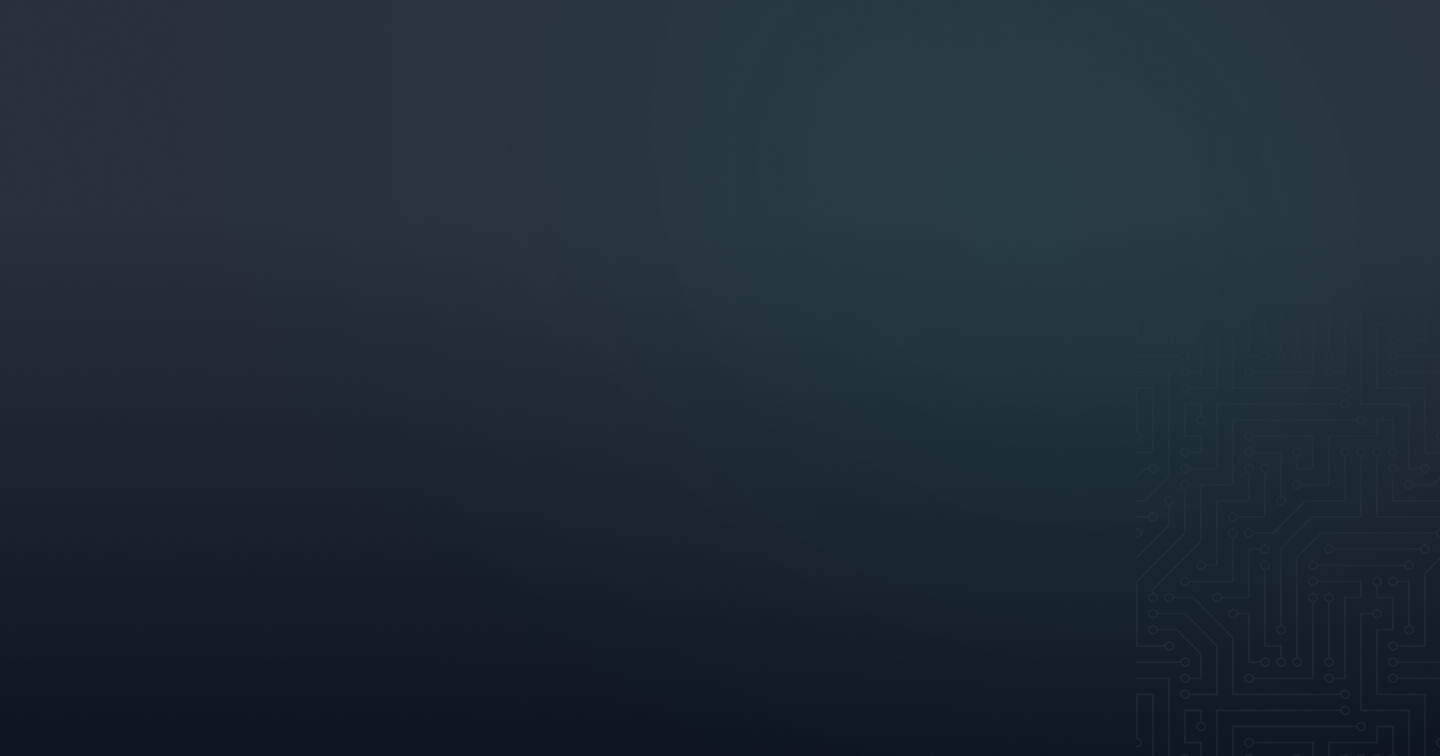
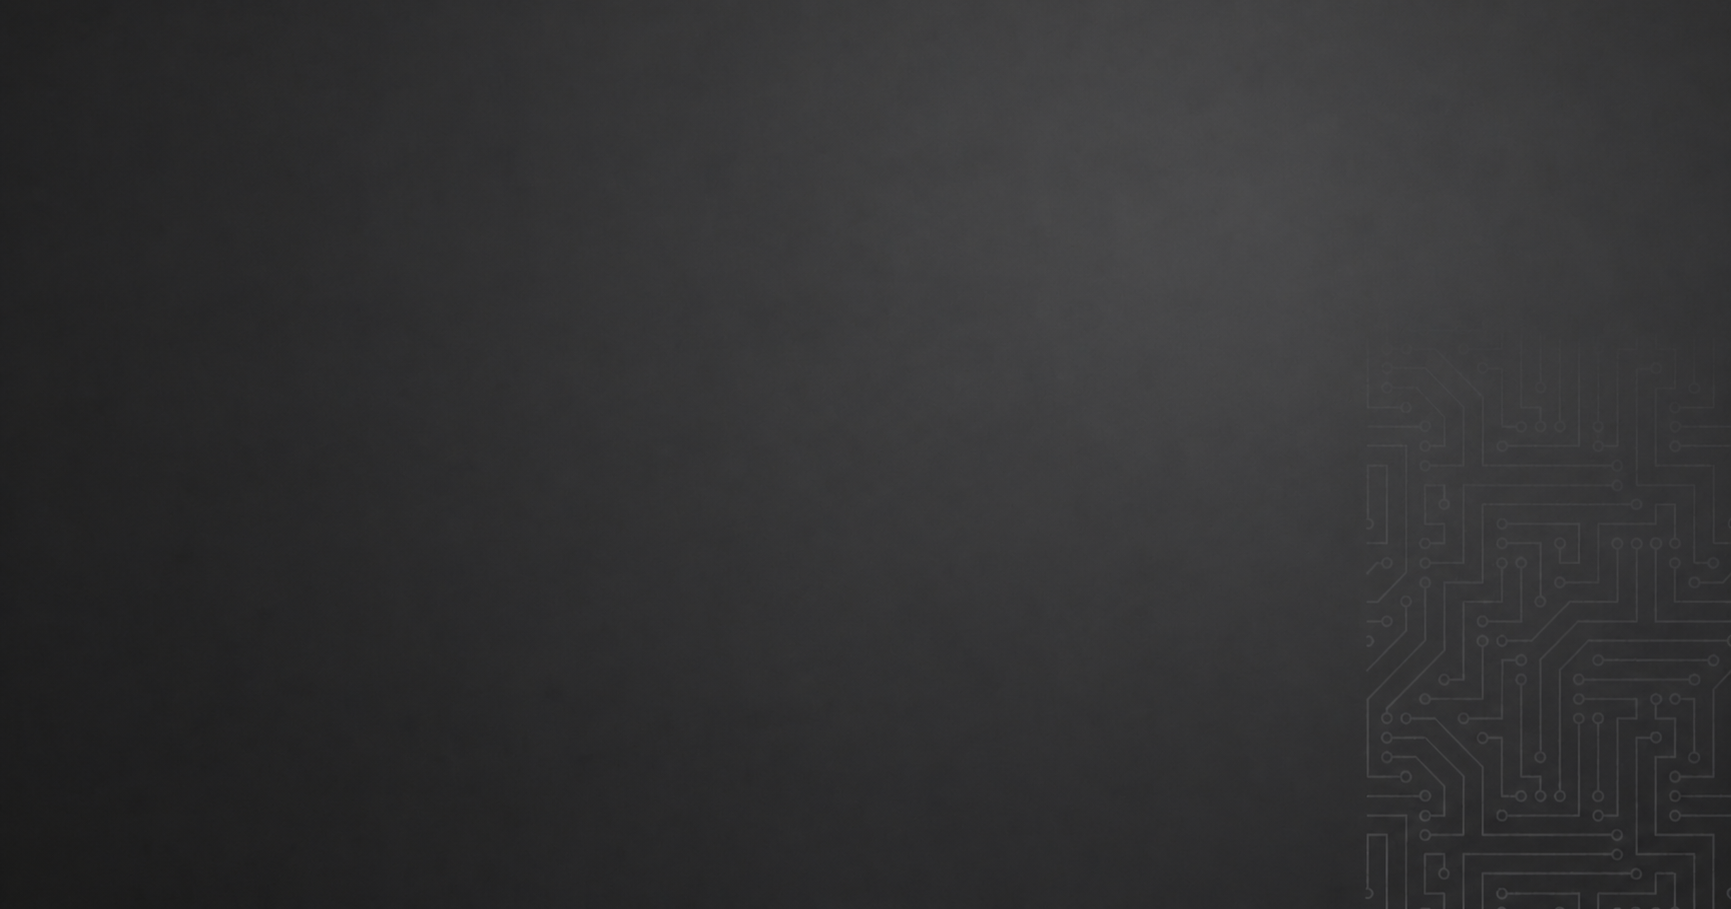
A bunch of changes
Added some images, logos and informations. Created a navigation bar. Addeed shortcuts for social media and contacts.

diff --git a/app/components/pages/home/hero-section/index.tsx b/app/components/pages/home/hero-section/index.tsx
@@ -1,0 +1,73 @@
+import { TechBadge } from '@/app/components/tech-badge';
+import Image from 'next/image';
+import { HiArrowNarrowRight } from 'react-icons/hi';
+import {TbBrandGithub, TbBrandLinkedin, TbBrandWhatsapp} from 'react-icons/tb'
+
+const MOCK_CONTACTS = [
+    {
+        url: "https://github.com/ekiyoshiks",
+        icon: <TbBrandGithub />
+    },
+    {
+        url: "https://www.linkedin.com/in/enzo-sampaio-460541239/",
+        icon: <TbBrandLinkedin />
+    },
+
+    {
+        url: "https://wa.me/5511990170114",
+        icon: <TbBrandWhatsapp />
+    },
+
+];
+
+export const HeroSection = () => {
+    return (
+        <section className="w-full lg:h-[755px] bg-hero-image bg-cover bg-center bg-no-repeat flex flex-col justify-end sm:pb-32 py-32 lg:pb-110px">
+            <div className="container flex items-start justify-between flex-col-reverse lg:flex-row">
+                <div className="w-full lg:max-w-[530px] flex flex-col gap-6">
+                    <p className="text-4xl font-medium mt-2 font-nono text-stone400">Enzo Kiyoshi</p>
+                    <h3>CS STUDENT  ~  PROFESSIONAL ATHLETE</h3>
+                
+                    <p className="text-stone400 my-6 text-sm sm:text-base">
+                        I'm a Computer Science student at Universidade Presbiteriana Mackenzie, with a technical degree in Artificial Intelligence from FECAP. My curiosity for technology started early — whenever I wasn't on a court, I was in front of a computer, exploring, learning, and building.
+                    </p>
+
+                    <div className="flex items-center gap-x-2 gap-y-3 flex-wrap lg:max-w-[340px]">
+                        {Array.from({ length: 7 }).map((_, index) => (
+                            <TechBadge name="Python" />
+                        ))}
+                    </div>
+
+                    <div className="flex sm:items-center gap-6 mt-6 lg:mt-10 sm:gap-5 flex-col sm:flex-row">
+                        <button className="w-max shadow-button shadow-stone-600 px-4 py-3 rounded-lg flex items-center gap-2 justify-center bg-stone-500 text-white hover:bg-stone-400 transition-all disabled:opacity-50 disabled:cursor-not-allowed">
+                            Entra em contato
+                            <HiArrowNarrowRight size={18} />
+                        </button>
+
+                        <div className="text-gray-600 flex items-center h-20 gap-3">
+                            {MOCK_CONTACTS.map((contact, index) => (
+                                <a
+                                    key={`contact-${index}`}
+                                    href={contact.url}
+                                    target="_blank"
+                                    className="text-stone-400 hover:text-stone-300 transition-colors"
+                                >
+                                    {contact.icon}
+                                </a>
+                            ))}
+                        </div>
+                    </div>
+                </div>
+
+                <Image
+                    width={420}
+                    height={404}
+                    src="/images/profile-pic.jpeg"
+                    alt="Kiyoshi's Profile Picture"
+                    className="w-[300px] h-[300px] lg:w-[440px] lg:h-[440px] mb-6 lg:mb-0 shadow-2xl rounded-lg object-cover "
+                />
+
+            </div>
+        </section>
+    )
+}

diff --git a/app/components/header/index.tsx b/app/components/header/index.tsx
@@ -1,0 +1,42 @@
+import Link from "next/link"
+import Image from "next/image"
+import { NavItem } from "./nav-item"
+
+const NAV_ITENS = [
+    {
+        label : 'Home',
+        href : '/'
+    },
+    {
+        label : 'Projects',
+        href : '/projects'
+    }
+]
+
+export const Header = () => {
+    return (
+        <header className="absolute top-0 w-full z-10 h-24 flex items-center justify-center">
+            <div className="container flex items-center justify-between py-3">
+                <Link href="/">
+                    <Image
+                        width={150}
+                        height={150}
+                        src="/images/logo.svg"
+                        alt="Logo E.K."
+                    
+                    />
+
+
+                </Link>
+
+                <nav className="flex items-center gap-4 sm:gap-10">
+                    {NAV_ITENS.map(item => (
+                        <NavItem{...item} key={item.label} />
+                    ))}
+                </nav>
+                
+            </div>
+        </header>
+
+    )
+}

diff --git a/app/components/header/nav-item.tsx b/app/components/header/nav-item.tsx
@@ -1,0 +1,26 @@
+'use client'
+
+import { cn } from "@/app/lib/utils";
+import Link from "next/link"
+import { usePathname } from "next/navigation";
+
+type NavItemProps = {
+    label : string,
+    href : string
+}
+
+export const NavItem = ({ label, href }: NavItemProps) => {
+    const pathName = usePathname()
+
+    const isActive = pathName === href;
+
+    return (    
+        <Link href={href} className= {cn(
+            "text-white flex items-center gap-2 font-medium font-mono",
+            isActive && "text-white"
+        )}>
+            <span className="text-stone-400">#</span>
+                {label}
+        </Link>
+    )
+}

diff --git a/app/components/button/index.tsx b/app/components/button/index.tsx
@@ -1,0 +1,18 @@
+import {ButtonHTMLAttributes} from "react";
+import { cn } from "../../lib/utils";
+
+type ButtonProps = ButtonHTMLAttributes<HTMLButtonElement>;
+
+export const Button = ({ children, className, ...props}: ButtonProps) => {
+    return (
+        <button
+            className={cn(
+                "px-4 py-3 rounded-lg flex items-center gap-2 justify-center bg-stone-500 text-white hover:bg-stone-400 transition-all disabled:opacity-50 disabled:cursor-not-allowed",
+                className
+            )}
+            {...props}
+        >
+            {children}
+        </button>
+    );
+};

diff --git a/app/layout.tsx b/app/layout.tsx
@@ -1,6 +1,7 @@
 import { Inter, IBM_Plex_Mono } from 'next/font/google'
 import './globals.css'
 import { ReactNode } from 'react'
+import { Header } from './components/header'
 
 const inter = Inter({
   variable: '--font-inter',
@@ -17,6 +18,7 @@ export default function RootLayout({ children }: { children: ReactNode }) {
   return (
     <html lang="pt-BR" className={`${inter.variable} ${plexMono.variable}`}>
       <body>
+        <Header />
         {children}
       </body>
     </html>

diff --git a/app/components/tech-badge/index.tsx b/app/components/tech-badge/index.tsx
@@ -1,0 +1,11 @@
+type TechBadgeProps = {
+    name : string
+}
+
+export const TechBadge = ( { name }: TechBadgeProps ) => {
+    return (
+        <span className="text-stone-400 bg-stone-900/80 text-sm py-1 px-3 rounded-lg">
+            {name}
+        </span>
+    )
+}

diff --git a/app/page.tsx b/app/page.tsx
@@ -1,7 +1,9 @@
+import { HeroSection } from "./components/pages/home/hero-section";
+
 export default async function Home() {
   return (
     <>
-      <h1>Home Page</h1>
+    <HeroSection />
     </>
   )
 }

diff --git a/app/lib/utils.ts b/app/lib/utils.ts
@@ -1,0 +1,6 @@
+import { ClassValue, clsx } from 'clsx';
+import { twMerge } from 'tailwind-merge';
+
+export const cn = (...inputs: ClassValue[]) => {
+    return twMerge(clsx(inputs))
+}
